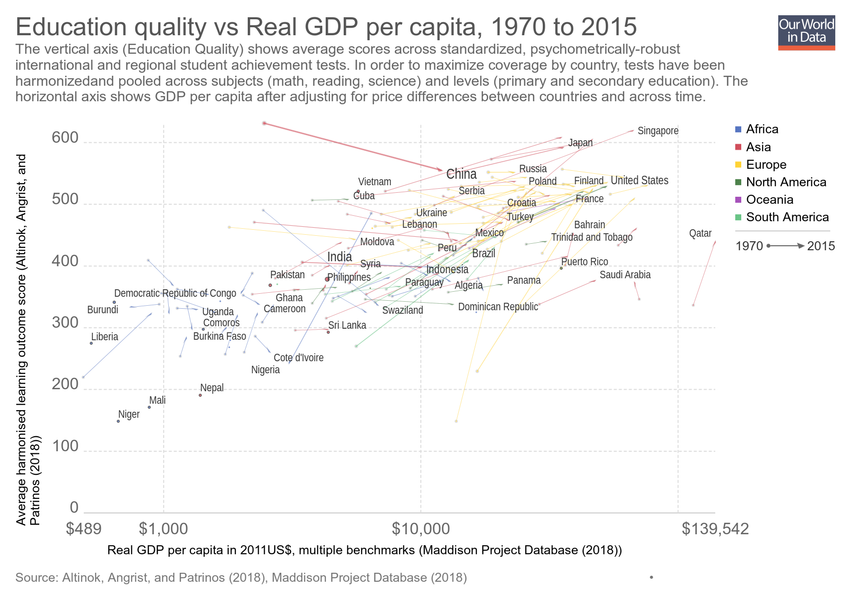
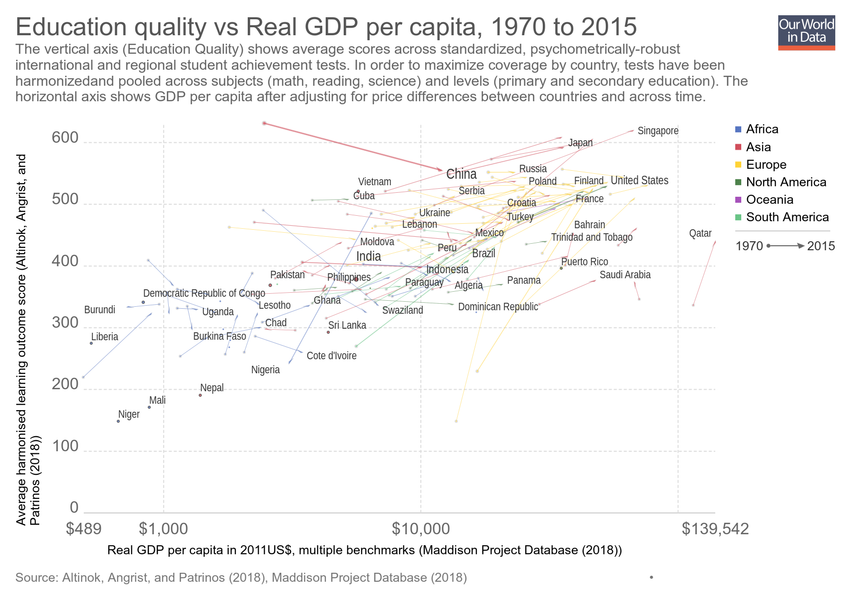
Publishing chart mean-product-lifetime-plastic

Changed region(s): [[0.0918, 0.48, 0.4282, 0.6], [0.4282, 0.33, 0.52, 0.39], [0.3671, 0.42, 0.4588, 0.45]]

diff --git a/grapher/education-quality-vs-real-gdp-per-capita.html b/grapher/education-quality-vs-real-gdp-per-capita.html
@@ -1,4 +1,4 @@
-<!doctype html><html><head><meta name="viewport" content="width=device-width, initial-scale=1" /><title>Education quality vs Real GDP per capita - Our World in Data</title><meta name="description" content="The vertical axis (Education Quality) shows average scores across standardized, psychometrically-robust international and regional student achievement tests. In order to maximize coverage by country, tests have been harmonizedand pooled across subjects (math, reading, science) and levels (primary and secondary education). The horizontal axis shows GDP per capita after adjusting for price differences between countries and across time." /><link rel="canonical" href="https://ourworldindata.org/grapher/education-quality-vs-real-gdp-per-capita" /><meta property="fb:app_id" content="1149943818390250" /><meta property="og:url" content="https://ourworldindata.org/grapher/education-quality-vs-real-gdp-per-capita" /><meta property="og:title" content="Education quality vs Real GDP per capita" /><meta property="og:description" content="The vertical axis (Education Quality) shows average scores across standardized, psychometrically-robust international and regional student achievement tests. In order to maximize coverage by country, tests have been harmonizedand pooled across subjects (math, reading, science) and levels (primary and secondary education). The horizontal axis shows GDP per capita after adjusting for price differences between countries and across time." /><meta property="og:image" content="https://ourworldindata.org/grapher/exports/education-quality-vs-real-gdp-per-capita.png?v=1" /><meta property="og:image:width" content="850" /><meta property="og:image:height" content="600" /><meta property="og:site_name" content="Our World in Data" /><meta name="twitter:card" content="summary_large_image" /><meta name="twitter:site" content="@OurWorldInData" /><meta name="twitter:creator" content="@OurWorldInData" /><meta name="twitter:title" content="Education quality vs Real GDP per capita" /><meta name="twitter:description" content="The vertical axis (Education Quality) shows average scores across standardized, psychometrically-robust international and regional student achievement tests. In order to maximize coverage by country, tests have been harmonizedand pooled across subjects (math, reading, science) and levels (primary and secondary education). The horizontal axis shows GDP per capita after adjusting for price differences between countries and across time." /><meta name="twitter:image" content="https://ourworldindata.org/grapher/exports/education-quality-vs-real-gdp-per-capita.png?v=1" /><style>
+<!doctype html><html><head><meta name="viewport" content="width=device-width, initial-scale=1" /><title>Education quality vs Real GDP per capita - Our World in Data</title><meta name="description" content="The vertical axis (Education Quality) shows average scores across standardized, psychometrically-robust international and regional student achievement tests. In order to maximize coverage by country, tests have been harmonizedand pooled across subjects (math, reading, science) and levels (primary and secondary education). The horizontal axis shows GDP per capita after adjusting for price differences between countries and across time." /><link rel="canonical" href="https://ourworldindata.org/grapher/education-quality-vs-real-gdp-per-capita" /><meta property="fb:app_id" content="1149943818390250" /><meta property="og:url" content="https://ourworldindata.org/grapher/education-quality-vs-real-gdp-per-capita" /><meta property="og:title" content="Education quality vs Real GDP per capita" /><meta property="og:description" content="The vertical axis (Education Quality) shows average scores across standardized, psychometrically-robust international and regional student achievement tests. In order to maximize coverage by country, tests have been harmonizedand pooled across subjects (math, reading, science) and levels (primary and secondary education). The horizontal axis shows GDP per capita after adjusting for price differences between countries and across time." /><meta property="og:image" content="https://ourworldindata.org/grapher/exports/education-quality-vs-real-gdp-per-capita.png?v=2" /><meta property="og:image:width" content="850" /><meta property="og:image:height" content="600" /><meta property="og:site_name" content="Our World in Data" /><meta name="twitter:card" content="summary_large_image" /><meta name="twitter:site" content="@OurWorldInData" /><meta name="twitter:creator" content="@OurWorldInData" /><meta name="twitter:title" content="Education quality vs Real GDP per capita" /><meta name="twitter:description" content="The vertical axis (Education Quality) shows average scores across standardized, psychometrically-robust international and regional student achievement tests. In order to maximize coverage by country, tests have been harmonizedand pooled across subjects (math, reading, science) and levels (primary and secondary education). The horizontal axis shows GDP per capita after adjusting for price differences between countries and across time." /><meta name="twitter:image" content="https://ourworldindata.org/grapher/exports/education-quality-vs-real-gdp-per-capita.png?v=2" /><style>
         html, body {
             height: 100%;
             margin: 0;
@@ -20,8 +20,8 @@
         }
     </style><noscript><style>
                     figure { display: none !important; }
-                </style></noscript><link rel="stylesheet" href="https://ourworldindata.org/grapher/assets/commons.bundle.7bc7a3a90f15cac09df5.css" /><link rel="preload" href="/grapher/data/variables/97675+66390+72+123.json?v=1" as="fetch" crossorigin /></head><body class="singleChart"><figure data-grapher-src="/grapher/education-quality-vs-real-gdp-per-capita"></figure><noscript id="fallback"><img src="/grapher/exports/education-quality-vs-real-gdp-per-capita.svg" /><p>Interactive visualization requires JavaScript</p></noscript><script src="https://cdn.polyfill.io/v2/polyfill.min.js?features=es6,fetch"></script><script src="https://ourworldindata.org/grapher/assets/commons.bundle.7bc7a3a90f15cac09df5.js"></script><script src="https://ourworldindata.org/grapher/assets/charts.bundle.7bc7a3a90f15cac09df5.js"></script><script>
-        var jsonConfig = {"map":{"projection":"World","colorSchemeLabels":[],"colorSchemeValues":[],"customNumericColors":[],"customCategoryColors":{},"customCategoryLabels":{},"customHiddenCategories":{}},"tab":"chart","slug":"education-quality-vs-real-gdp-per-capita","type":"ScatterPlot","title":"Education quality vs Real GDP per capita","xAxis":{"scaleType":"log","canChangeScaleType":true},"yAxis":{"min":0,"scaleType":"linear"},"maxTime":2015,"minTime":1970,"version":1,"subtitle":"The vertical axis (Education Quality) shows average scores across standardized, psychometrically-robust international and regional student achievement tests. In order to maximize coverage by country, tests have been harmonizedand pooled across subjects (math, reading, science) and levels (primary and secondary education). The horizontal axis shows GDP per capita after adjusting for price differences between countries and across time.","hasMapTab":false,"stackMode":"absolute","dimensions":[{"display":{},"property":"y","variableId":97675},{"display":{},"property":"x","variableId":66390},{"display":{},"property":"size","variableId":72},{"display":{},"property":"color","variableId":123}],"isAutoSlug":true,"hasChartTab":true,"isPublished":true,"selectedData":[],"internalNotes":"DRAFT _ DO NOT SHARE","compareEndPointsOnly":true,"id":2891};
+                </style></noscript><link rel="stylesheet" href="https://ourworldindata.org/grapher/assets/commons.bundle.7bc7a3a90f15cac09df5.css" /><link rel="preload" href="/grapher/data/variables/97675+66390+72+123.json?v=2" as="fetch" crossorigin /></head><body class="singleChart"><figure data-grapher-src="/grapher/education-quality-vs-real-gdp-per-capita"></figure><noscript id="fallback"><img src="/grapher/exports/education-quality-vs-real-gdp-per-capita.svg" /><p>Interactive visualization requires JavaScript</p></noscript><script src="https://cdn.polyfill.io/v2/polyfill.min.js?features=es6,fetch"></script><script src="https://ourworldindata.org/grapher/assets/commons.bundle.7bc7a3a90f15cac09df5.js"></script><script src="https://ourworldindata.org/grapher/assets/charts.bundle.7bc7a3a90f15cac09df5.js"></script><script>
+        var jsonConfig = {"id":2891,"map":{"projection":"World","colorSchemeLabels":[],"colorSchemeValues":[],"customNumericColors":[],"customCategoryColors":{},"customCategoryLabels":{},"customHiddenCategories":{}},"tab":"chart","slug":"education-quality-vs-real-gdp-per-capita","type":"ScatterPlot","title":"Education quality vs Real GDP per capita","xAxis":{"scaleType":"log","canChangeScaleType":true},"yAxis":{"min":0,"scaleType":"linear"},"maxTime":2015,"minTime":1970,"version":2,"subtitle":"The vertical axis (Education Quality) shows average scores across standardized, psychometrically-robust international and regional student achievement tests. In order to maximize coverage by country, tests have been harmonizedand pooled across subjects (math, reading, science) and levels (primary and secondary education). The horizontal axis shows GDP per capita after adjusting for price differences between countries and across time.","hasMapTab":false,"stackMode":"absolute","dimensions":[{"display":{"tolerance":5},"property":"y","variableId":97675},{"display":{},"property":"x","variableId":66390},{"display":{},"property":"size","variableId":72},{"display":{},"property":"color","variableId":123}],"hasChartTab":true,"isPublished":true,"selectedData":[],"internalNotes":"DRAFT _ DO NOT SHARE","compareEndPointsOnly":true};
         var figure = document.getElementsByTagName("figure")[0];
         try {
             window.App = {};

diff --git a/grapher/mean-product-lifetime-plastic.html b/grapher/mean-product-lifetime-plastic.html
@@ -1,0 +1,35 @@
+<!doctype html><html><head><meta name="viewport" content="width=device-width, initial-scale=1" /><title>Mean product lifetime of plastic uses - Our World in Data</title><meta name="description" content="Mean product lifetime (from production to disposal) of different uses of plastic products, measured in years." /><link rel="canonical" href="https://ourworldindata.org/grapher/mean-product-lifetime-plastic" /><meta property="fb:app_id" content="1149943818390250" /><meta property="og:url" content="https://ourworldindata.org/grapher/mean-product-lifetime-plastic" /><meta property="og:title" content="Mean product lifetime of plastic uses" /><meta property="og:description" content="Mean product lifetime (from production to disposal) of different uses of plastic products, measured in years." /><meta property="og:image" content="https://ourworldindata.org/grapher/exports/mean-product-lifetime-plastic.png?v=1" /><meta property="og:image:width" content="850" /><meta property="og:image:height" content="600" /><meta property="og:site_name" content="Our World in Data" /><meta name="twitter:card" content="summary_large_image" /><meta name="twitter:site" content="@OurWorldInData" /><meta name="twitter:creator" content="@OurWorldInData" /><meta name="twitter:title" content="Mean product lifetime of plastic uses" /><meta name="twitter:description" content="Mean product lifetime (from production to disposal) of different uses of plastic products, measured in years." /><meta name="twitter:image" content="https://ourworldindata.org/grapher/exports/mean-product-lifetime-plastic.png?v=1" /><style>
+        html, body {
+            height: 100%;
+            margin: 0;
+        }
+
+        figure[data-grapher-src], #fallback {
+            display: flex;
+            align-items: center;
+            justify-content: center;
+            flex-direction: column;
+            margin: 0;
+            width: 100%;
+            height: 100%;
+        }
+
+        #fallback > img {
+            max-width: 100%;
+            border: 1px solid #ccc;
+        }
+    </style><noscript><style>
+                    figure { display: none !important; }
+                </style></noscript><link rel="stylesheet" href="https://ourworldindata.org/grapher/assets/commons.bundle.7bc7a3a90f15cac09df5.css" /><link rel="preload" href="/grapher/data/variables/97693.json?v=1" as="fetch" crossorigin /></head><body class="singleChart"><figure data-grapher-src="/grapher/mean-product-lifetime-plastic"></figure><noscript id="fallback"><img src="/grapher/exports/mean-product-lifetime-plastic.svg" /><p>Interactive visualization requires JavaScript</p></noscript><script src="https://cdn.polyfill.io/v2/polyfill.min.js?features=es6,fetch"></script><script src="https://ourworldindata.org/grapher/assets/commons.bundle.7bc7a3a90f15cac09df5.js"></script><script src="https://ourworldindata.org/grapher/assets/charts.bundle.7bc7a3a90f15cac09df5.js"></script><script>
+        var jsonConfig = {"map":{"projection":"World","colorSchemeLabels":[],"colorSchemeValues":[],"customNumericColors":[],"customCategoryColors":{},"customCategoryLabels":{},"customHiddenCategories":{}},"tab":"chart","slug":"mean-product-lifetime-plastic","type":"DiscreteBar","title":"Mean product lifetime of plastic uses","xAxis":{"scaleType":"linear"},"yAxis":{"min":0,"scaleType":"linear"},"version":1,"subtitle":"Mean product lifetime (from production to disposal) of different uses of plastic products, measured in years.","hasMapTab":false,"stackMode":"absolute","dimensions":[{"display":{"shortUnit":"years"},"property":"y","variableId":97693}],"sourceDesc":"Geyer et al. (2017)","hasChartTab":true,"isPublished":true,"selectedData":[{"index":0,"entityId":37784},{"index":0,"entityId":37786},{"index":0,"entityId":37785},{"index":0,"entityId":37787},{"index":0,"entityId":37788},{"index":0,"entityId":37782},{"index":0,"entityId":37231},{"index":0,"entityId":37783}],"addCountryMode":"disabled","id":2892};
+        var figure = document.getElementsByTagName("figure")[0];
+        try {
+            window.App = {};
+            window.Global = { rootUrl: 'https://ourworldindata.org/grapher' };
+            ChartView.bootstrap({ jsonConfig: jsonConfig, containerNode: figure })
+        } catch (err) {
+            figure.innerHTML = "<img src=\"/grapher/exports/mean-product-lifetime-plastic.svg\"/><p>Unable to load interactive visualization</p>";
+            figure.setAttribute("id", "fallback");
+            throw err;
+        }
+    </script></body></html>
